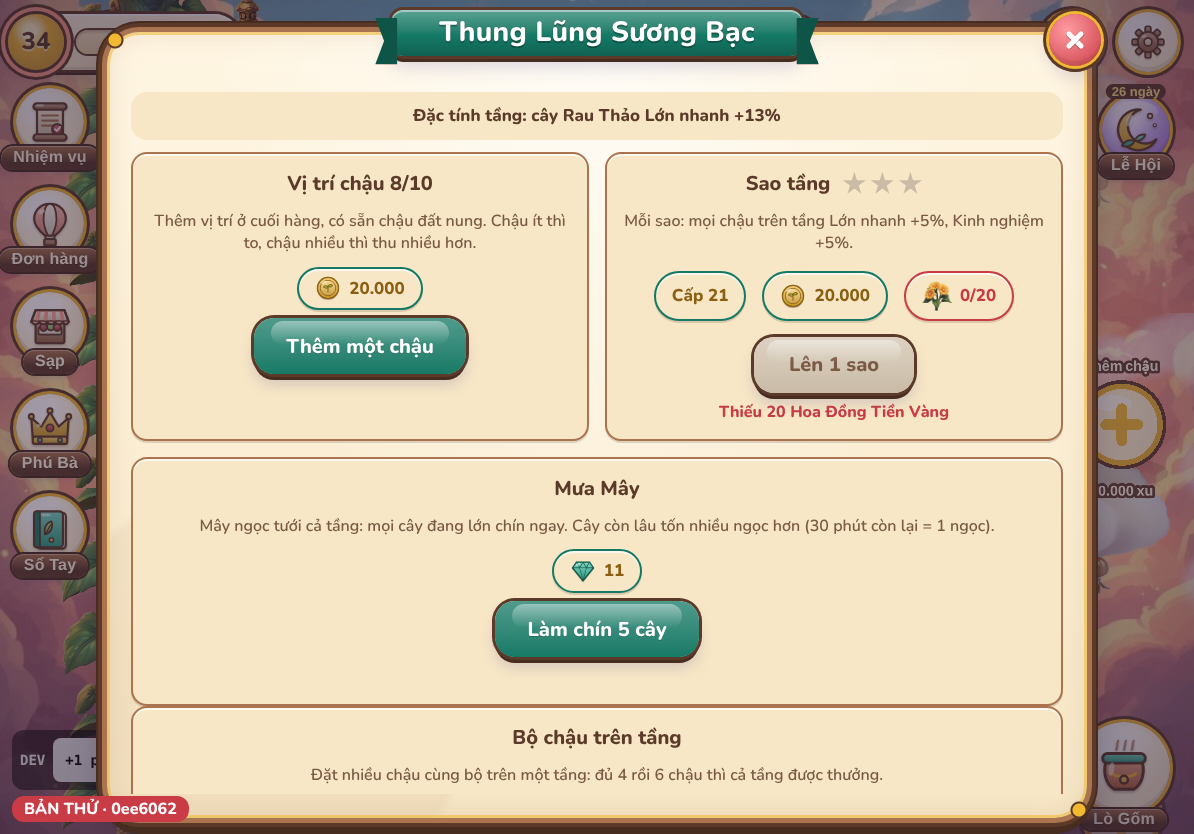
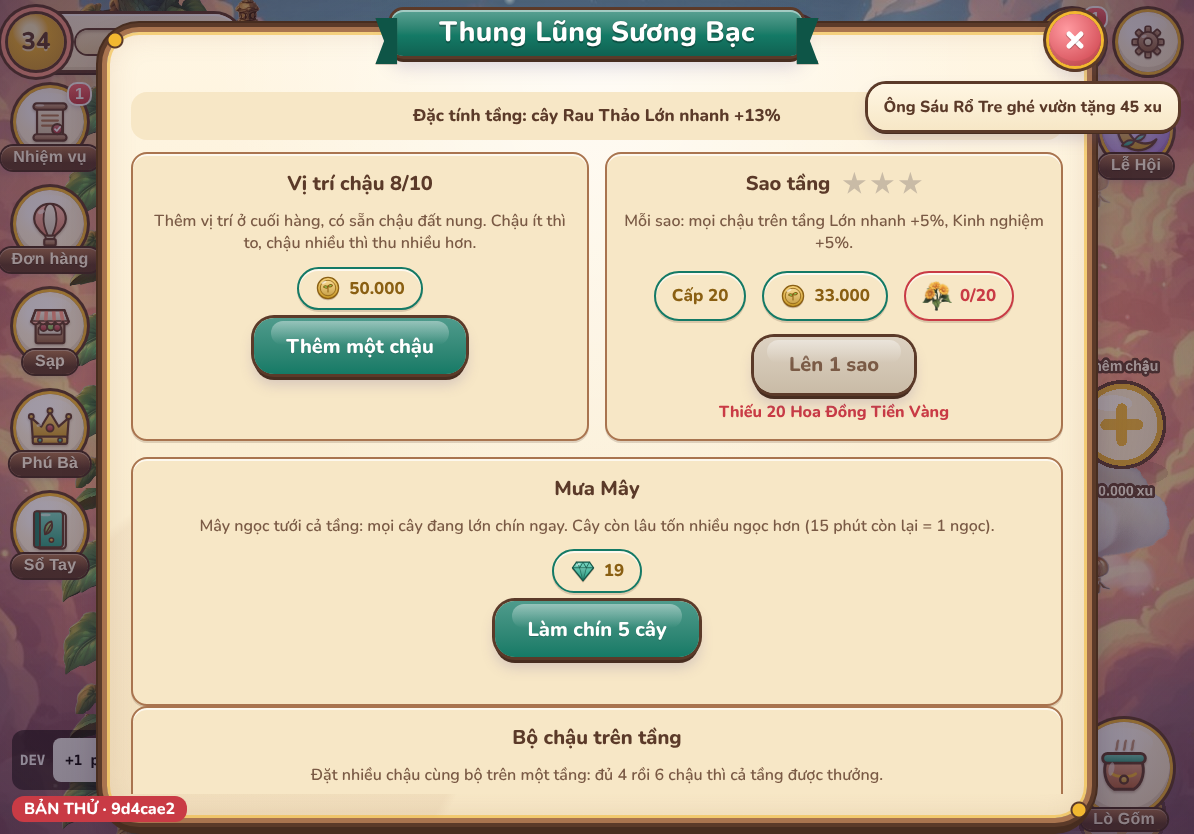
Nâng cấp v3 đợt 1 (bản cuối): báo cáo nghiệm thu, ảnh, log, bảng mô phỏng 3 kiểu chơi
Claude-Session: https://claude.ai/code/session_01Jbb7Avz1GVCUpUTypeYz5L

diff --git a/docs/reports/2026-11-17-nang-cap-v3-dot-1/bao-cao.md b/docs/reports/2026-11-17-nang-cap-v3-dot-1/bao-cao.md
@@ -1,58 +1,67 @@
-# Nâng cấp v3 — Đợt 1: Tiến trình vô tận
+# Nâng cấp v3 — Đợt 1: Tiến trình vô tận (bản cuối, theo kế hoạch A1–A5)
 
-Ngày 17/11/2026. Nhánh `feat/nang-cap-v3`, commit `63a75c2` và `0ee6062`. Kế hoạch tổng nằm ở Project (`ke-hoach-nang-cap-v3.md`).
+Ngày 17/11/2026. Nhánh `feat/nang-cap-v3`, commit `9d4cae2`. Bản này thay cho bản nháp 63a75c2/0ee6062.
 
-Quyết định của chủ dự án: **không có cấp tối đa, không có tầng mây tối đa; tầng càng cao thì yêu cầu càng cao.**
+Kế hoạch đã duyệt: `ke-hoach-nang-cap-v3.md` (Project).
 
-## Đã làm
+## Công thức (đều nằm trong `content/base/config.json`)
 
-| Hạng mục | Nội dung | Dữ liệu |
+| Mục | Công thức | Ghi chú |
 |---|---|---|
-| Cấp không giới hạn | Bỏ trần cấp 30. XP cần để lên cấp L tính bằng `10 × L^1,6 × 1,06^(L−1)`, nên cấp sau luôn khó hơn cấp trước. BOT cũng không còn trần cấp. | `config.levels` |
-| Thưởng lên cấp | Mỗi cấp được 10 + 10×cấp xu. Cứ 5 cấp thêm 2 ngọc, cứ 10 cấp thêm 3 ngọc và 3 Đất Sét Mây. Bảng chúc mừng ghi rõ quà. | `config.levels.levelUp` |
-| Tầng mây vô tận | Sau 3 tầng thiết kế sẵn, tầng 4 trở đi được sinh theo công thức. Tên (8 tên, hết vòng thì thêm "II", "III"…), màu, ảnh và đặc tính họ cây xoay vòng. Đặc tính tăng 1% mỗi tầng, tối đa 30%. Cấp yêu cầu: 16, 20, 25, 30, 36…; giá mở: 20.000 × 2^k. Giá thêm chậu và yêu cầu sao tăng theo. Mỗi tầng có id `base:floor.gen-N`, lưu/tải không mất. | `config.floorGen`, `src/core/floorgen.ts` |
-| Chỗ tiêu xu | Nâng Rương Mây: +20 ô mỗi bậc, không giới hạn bậc. Giá bắt đầu 300 xu và nhân 1,45 mỗi bậc. | `config.storageUpgrade` |
-| Chỗ tiêu ngọc | **Mưa Mây** (trong bảng tầng): làm chín ngay mọi cây đang lớn trên tầng. Giá tính theo thời gian còn lại: 30 phút = 1 ngọc, tối thiểu 1 ngọc mỗi chậu. | `config.cloudRain` |
-| Ngọc không còn tràn | Quà bất ngờ giảm: trần cơ hội từ 0,5 xuống 0,25; quà ngọc nhẹ hơn. Ở vườn lớn, ngọc kiếm được từ khoảng 100 xuống còn 25–40 mỗi ngày. | `surprises.json` |
-| Bố cục | Thẻ tầng đang khóa ghi "Tầng N · tên" và hạ thấp xuống, không còn sát dòng gợi ý. Đồng hồ sự kiện hiện "26 ngày" thay cho "641:15". Mỗi lúc hiện tối đa 2 thông báo. | |
-| Save | Save đời 9 (thêm `upgrades.storage`), có migration 8→9. Thêm save mẫu thật đời 8 từ bản `e17dd05` vào bộ kiểm thử. Save đời 4, 7, 8 đều nâng lên được mà giữ nguyên tiến trình. | |
-| Sửa lỗi | `demo('garden')` không còn cố mua chậu sự kiện/nhiệm vụ. | |
+| A1. Đơn vị thu nhập U(L) | Lấy số xu/chậu/giờ của cây tốt nhất đã mở ở cấp L, giả định người chơi ghé mỗi 30 phút. Nhân với số tầng đã mở ở cấp L × 8 chậu. Nhân với (1 + 0,3). | U(5)=1.664, U(10)=4.421, U(30)=11.791, U(50)=22.107, U(100)=47.163 |
+| A2. XP để lên cấp L | 10 · L^1,6 · 1,06^min(L−1, 49) · (1 + 0,02·max(0, L−50)) | Không có cấp tối đa. Tới cấp 10.000 vẫn là số nguyên chính xác. |
+| Thưởng lên cấp | 0,25·U(L) xu. Thêm 2 ngọc mỗi 5 cấp. Thêm 3 ngọc và 3 Đất Sét Mây mỗi 10 cấp. | |
+| A3. Tầng sinh tự động thứ k | Cấp mở = 16 + 3k. Giá mở = U(cấp mở) × (4 + 5k) giờ. | Tầng 4: cấp 16, 24.000 xu. Tầng 8: cấp 28, 283.000 xu. Tầng 20: cấp 64, 2,48 triệu. Tầng 100: cấp 304, 71,3 triệu. |
+| Thêm chậu, sao tầng | Thêm chậu: 25/50/75/100% giá tầng. Sao: cấp +1/+4/+8, xu 50/100/200% giá tầng, cần nông sản của cây mới nhất. | |
+| Rương Mây | Giá nâng = 300 × (bậc + 1)^2,2 xu. Mỗi bậc thêm 20 ô. | Không giới hạn bậc. Bậc 10.000 vẫn là số nguyên chính xác. |
+| Mưa Mây | Mỗi 15 phút còn lại tốn 1 ngọc, tối thiểu 1 ngọc mỗi chậu. | Chỗ tiêu ngọc. |
+| A4. Trần chỉ số (tổng mọi nguồn) | Lớn nhanh 75%, sản lượng +200%, kinh nghiệm +150%, may mắn +100%, hút bọ +100%, chăm sóc +150%. | Validator bắt buộc có đủ trần cho mọi chỉ số. |
+| Ngân sách quà ngọc | Quà bất ngờ cho tối đa 6 ngọc mỗi ngày; vượt mức thì quà thành xu. | Trước khi sửa, vườn lớn nhận khoảng 30 ngọc/ngày. |
 
-## Nhịp tiến trình (mô phỏng qua bộ xử lý lệnh thật, `tools/progression.ts`)
+## A5. Mô phỏng dài hạn (chạy qua bộ xử lý lệnh thật, nằm trong `npm test`)
 
-Người chơi giả lập ghé vườn từ 8h đến 22h và tiêu xu theo thứ tự: tầng → chậu → sao → rương → nâng chậu. Mô phỏng chưa tính việc mua chậu ở Lò Gốm và dùng Mưa Mây.
+Người chơi giả lập ghé vườn trong khoảng 8h–22h. Mỗi lần ghé: thu hoạch, bán, giao đơn, nhận thưởng, gieo lại, rồi tiêu tiền vào tầng → chậu → sao → Rương Mây → chậu mới ở Lò Gốm → nâng chậu. Dùng Mưa Mây một lần mỗi sáng nếu đủ ngọc.
 
-| Ngày | Ghé 2 giờ/lần: cấp / tầng | Ghé 15 phút/lần: cấp / tầng |
-|---|---|---|
-| 1 | 6 / 1 | 15 / 2 |
-| 3 | 19 / 3 | 26 / 5 |
-| 7 | 32 / 6 | 36 / 7 |
-| 14 | 42 / 8 | 45 / 9 |
-| 21 | 48 / 9 | 50 / 9 |
-| 30 | 53 / 10 | 55 / 10 |
+| Kiểu chơi | Ngày 7 | Ngày 30 | Cuối mô phỏng | Lâu nhất không có mốc mới | Ngọc kiếm/ngày (30 ngày cuối) |
+|---|---|---|---|---|---|
+| Ghé 15 phút/lần (90 ngày) | — | cấp 54, 10 tầng | ngày 90: cấp 81, 18 tầng | ≤ 10 ngày (đạt) | khoảng 6–7 |
+| Ghé 2 giờ/lần (365 ngày) | cấp 20–45, ≥ 4 tầng (đạt) | cấp 50, 9 tầng | ngày 360: cấp 133, 32 tầng | ≤ 10 ngày (đạt) | khoảng 6–7 |
+| Ghé 8 giờ/lần (365 ngày) | — | cấp 30, 4 tầng | ngày 360: cấp 77, 17 tầng | ≤ 10 ngày (đạt) | khoảng 7 |
 
-Trước đợt này: người chơi đạt cấp 30 (trần) sau 2–5 ngày, rồi dư 1,17 triệu xu mà không có gì để mua. Sau đợt này: người chơi vẫn lên cấp và mở tầng mới mỗi tuần, chỉ chậm dần, và xu được tiêu vào tầng mới (giá tăng gấp đôi mỗi tầng). Nhịp này được giữ bằng test `tests/progression.test.ts`.
+"Mốc mới" gồm: mở tầng, thêm chậu, lên sao tầng, có cây mới, mua dòng chậu mới, chậu lên mốc cấp, nâng Rương Mây.
 
-## Kiểm thử
+Kiểm tra tự động cho cả 3 kiểu chơi:
+- cấp và tầng không bao giờ giảm;
+- không có quá 10 ngày liền không có mốc mới;
+- số xu tồn ≤ max(72·U, 1,5 × giá tầng kế tiếp) — tức người chơi chỉ để dành để mua tầng, không ôm tiền vô ích;
+- ngọc kiếm mỗi ngày ≤ 12;
+- 30 ngày cuối vẫn còn lên cấp.
 
-- `npm run typecheck`: exit 0.
-- `npm test`: 108/108 đạt, gồm 7 test mới cho tiến trình và 1 test nâng save đời 8.
-- `npm run build`: exit 0.
-- Chơi thử trong trình duyệt khổ 1194×834:
-  - save mới: gieo, thu hoạch bằng cách vuốt;
-  - vườn 5 tầng với tầng 6 đang khóa;
-  - bảng tầng có Mưa Mây;
-  - Rương Mây có nút nâng cấp.
-  - Không có lỗi console.
+Bảng chi tiết theo từng ngày: `prog15.md`, `prog120.md`, `prog480.md`.
 
-## Ảnh (bản `0ee6062`)
+**Điều chỉnh so với kế hoạch:** kế hoạch ghi giới hạn xu tồn là "≤ 72·U". Khi chạy mô phỏng, người chơi tiết kiệm để mua tầng cao (giá có thể vượt 72·U), nên mình sửa giới hạn thành "≤ max(72·U, 1,5 × giá tầng kế)". Mục đích của tiêu chí vẫn giữ nguyên: không ôm xu khi không có gì để mua.
 
-- `nguoi-choi-moi.png`: màn hình đầu của người chơi mới. Thẻ "Tầng 2" không còn sát dòng gợi ý.
-- `tang-vo-tan.png`: tầng 5 "Thung Lũng Sương Bạc" (sinh tự động) và tầng 6 đang khóa.
-- `bang-tang-mua-may.png`: bảng tầng với đặc tính, sao và Mưa Mây.
+## Cổng nghiệm thu
+
+| Tiêu chí | Kết quả |
+|---|---|
+| typecheck / test / build | exit 0 / **113/113 đạt** / exit 0 (`typecheck.log`, `test.log`, `build.log`) |
+| Test mới | 11 test tiến trình, gồm: 3 bài mô phỏng dài hạn; kiểm tra số học ở cấp 10.000, tầng 1.000 và Rương bậc 10.000; trần chỉ số; lưu/tải tầng sinh tự động; Rương Mây; Mưa Mây. Thêm 1 test save đời 9. |
+| Save cũ | Save mẫu thật đời 4 (d7c9ded), 7 (27159a0) và 8 (e17dd05) nâng lên đời 9, giữ nguyên tiến trình, có bản sao trước nâng cấp. Save đời 9 của bản thử nháp 9ef65c4 (thiếu ngân sách quà) tải được, giữ tiến trình. |
+| Chơi thử (Chrome, 1194×834, có bật cảm ứng) | (1) Save mới: 5 vòng gieo Cúc rồi vuốt thu hoạch → cấp 3, 218 xu, 28 lần thu hoạch. (2) Vườn 5 tầng: chạm thẻ "Tầng 6", bấm "Mở tầng" → đủ 6 tầng, trừ đúng 124.000 xu, thẻ chuyển sang "Tầng 7 · Đồi Cầu Vồng". (3) Mưa Mây trong bảng tầng: −19 ngọc, cây chín ngay. (4) Nâng Rương Mây: 60 → 80 ô. Không có lỗi console. |
+| Hiệu năng | Nút "Đo hiệu năng" cho kết quả ngang bản trước: 5,8–6,0 FPS ở bản này và bản e17dd05 khi đo trên cùng máy. Máy này vẽ bằng phần mềm (SwiftShader) nên con số chỉ dùng để so sánh tương đối. Texture không đổi: 95,1 MB. **Chưa đo trên iPad thật.** |
+| Bản thử | GitHub Pages, nhãn "BẢN THỬ · <commit>". |
+
+## Ảnh (bản 9d4cae2)
+
+- `nguoi-choi-moi-5-phut.png`: người chơi mới sau 5 vòng.
+- `tang-vo-tan.png`: vườn 5 tầng, thẻ tầng 6.
+- `mo-tang-6-qua-giao-dien.png`: sau khi bấm mở tầng 6, thẻ tầng 7.
+- `bang-tang-mua-may.png`: bảng tầng có Mưa Mây.
 - `ruong-may-nang-cap.png`: Rương Mây với nút nâng cấp.
 
-## Chưa làm trong đợt này
+## Còn mở (để các đợt sau)
 
-- Ảnh riêng cho tầng sinh tự động. Hiện các tầng này dùng lại ảnh 3 tầng cũ, đổi tên và màu. Ảnh riêng sẽ làm bằng Blender ở Đợt 6.
-- Cân lại giá trị chậu đặc trưng và mở cấp 11–50 cho chậu cổ điển: để Đợt 6.
+- Ngọc vẫn dư khoảng 5 ngọc/ngày, vì hiện chỉ có Mưa Mây để tiêu ngọc. Đợt 4 (cửa hàng sự kiện) và Đợt 5 (thú cưng) sẽ thêm chỗ tiêu.
+- Tầng sinh tự động dùng lại ảnh 3 tầng cũ, chỉ đổi màu. Ảnh mới bằng Blender làm ở Đợt 3.
+- Người mới đầy Rương Mây (56/60) chỉ sau khoảng 5 phút trồng Cúc. Đợt 2 sẽ thêm hướng dẫn bán hàng; Đợt 3 thêm nút "bán hết".

diff --git a/docs/reports/2026-11-17-nang-cap-v3-dot-1/prog120.md b/docs/reports/2026-11-17-nang-cap-v3-dot-1/prog120.md
@@ -1,32 +1,15 @@
-| Ngày | Cấp | Tầng | Xu | Ngọc | Thu hoạch |
-|---|---|---|---|---|---|
-| 1 | 6 | 1 | 778 | 16 | 48 |
-| 2 | 12 | 2 | 808 | 37 | 145 |
-| 3 | 19 | 3 | 7448 | 64 | 325 |
-| 4 | 23 | 4 | 3453 | 74 | 596 |
-| 5 | 27 | 5 | 1345 | 82 | 922 |
-| 6 | 29 | 5 | 61720 | 132 | 1317 |
-| 7 | 32 | 6 | 45632 | 158 | 1756 |
-| 8 | 34 | 6 | 104558 | 178 | 2233 |
-| 9 | 35 | 7 | 39785 | 199 | 2740 |
-| 10 | 37 | 7 | 12170 | 216 | 3289 |
-| 11 | 38 | 7 | 161804 | 242 | 3848 |
-| 12 | 40 | 7 | 292974 | 275 | 4408 |
-| 13 | 41 | 8 | 21712 | 317 | 5001 |
-| 14 | 42 | 8 | 65034 | 342 | 5625 |
-| 15 | 43 | 8 | 22164 | 373 | 6257 |
-| 16 | 44 | 8 | 242768 | 399 | 6896 |
-| 17 | 45 | 8 | 389072 | 437 | 7536 |
-| 18 | 45 | 8 | 508804 | 465 | 8176 |
-| 19 | 46 | 9 | 89181 | 485 | 8828 |
-| 20 | 47 | 9 | 36281 | 513 | 9522 |
-| 21 | 48 | 9 | 294252 | 533 | 10226 |
-| 22 | 48 | 9 | 211124 | 553 | 10936 |
-| 23 | 49 | 9 | 490364 | 582 | 11648 |
-| 24 | 49 | 9 | 243465 | 608 | 12366 |
-| 25 | 50 | 9 | 495129 | 644 | 13086 |
-| 26 | 51 | 9 | 573928 | 675 | 13806 |
-| 27 | 51 | 9 | 833614 | 694 | 14526 |
-| 28 | 52 | 9 | 846763 | 737 | 15246 |
-| 29 | 52 | 9 | 1127568 | 769 | 15966 |
-| 30 | 53 | 10 | 95429 | 810 | 16692 |
+| Ngày | Cấp | Tầng | Xu | U(cấp) | Xu/U | Ngọc | Ngọc kiếm | Mốc | Thu hoạch |
+|---|---|---|---|---|---|---|---|---|---|
+| 1 | 6 | 1 | 646 | 2948 | 0.2 | 16 | 11 | 10 | 48 |
+| 30 | 50 | 9 | 33966 | 22107 | 1.5 | 17 | 7 | 2 | 12974 |
+| 60 | 64 | 12 | 809632 | 29477 | 27.5 | 59 | 7 | 0 | 38053 |
+| 90 | 75 | 15 | 897894 | 33898 | 26.5 | 62 | 6 | 0 | 70868 |
+| 120 | 84 | 18 | 28635 | 38320 | 0.7 | 14 | 6 | 1 | 110030 |
+| 150 | 92 | 20 | 1218499 | 42741 | 28.5 | 35 | 6 | 0 | 154653 |
+| 180 | 99 | 22 | 2022031 | 45689 | 44.3 | 35 | 7 | 0 | 204164 |
+| 210 | 106 | 24 | 1164044 | 50110 | 23.2 | 23 | 8 | 0 | 258296 |
+| 240 | 112 | 25 | 2940119 | 53058 | 55.4 | 7 | 6 | 1 | 316897 |
+| 270 | 118 | 27 | 1753126 | 56005 | 31.3 | 23 | 7 | 0 | 379754 |
+| 300 | 123 | 29 | 2710644 | 57479 | 47.2 | 0 | 6 | 0 | 446372 |
+| 330 | 128 | 30 | 5904572 | 60427 | 97.7 | 73 | 6 | 0 | 516868 |
+| 360 | 133 | 32 | 2043435 | 63375 | 32.2 | 10 | 7 | 0 | 591343 |

diff --git a/docs/reports/2026-11-17-nang-cap-v3-dot-1/prog15.md b/docs/reports/2026-11-17-nang-cap-v3-dot-1/prog15.md
@@ -1,32 +1,6 @@
-| Ngày | Cấp | Tầng | Xu | Ngọc | Thu hoạch |
-|---|---|---|---|---|---|
-| 1 | 15 | 2 | 7327 | 53 | 359 |
-| 2 | 22 | 4 | 14934 | 101 | 1101 |
-| 3 | 26 | 5 | 12510 | 121 | 2145 |
-| 4 | 29 | 6 | 12934 | 155 | 3402 |
-| 5 | 32 | 6 | 77766 | 186 | 4875 |
-| 6 | 34 | 7 | 34971 | 225 | 6407 |
-| 7 | 36 | 7 | 126671 | 270 | 8117 |
-| 8 | 38 | 7 | 217455 | 309 | 9865 |
-| 9 | 39 | 7 | 318902 | 350 | 11615 |
-| 10 | 41 | 8 | 123284 | 390 | 13532 |
-| 11 | 42 | 8 | 244912 | 433 | 15502 |
-| 12 | 43 | 8 | 269157 | 479 | 17499 |
-| 13 | 44 | 8 | 430547 | 533 | 19499 |
-| 14 | 45 | 9 | 68623 | 574 | 21529 |
-| 15 | 46 | 9 | 109156 | 624 | 23707 |
-| 16 | 47 | 9 | 130581 | 689 | 25915 |
-| 17 | 48 | 9 | 454613 | 737 | 28140 |
-| 18 | 48 | 9 | 272137 | 793 | 30384 |
-| 19 | 49 | 9 | 624484 | 850 | 32634 |
-| 20 | 50 | 9 | 789601 | 917 | 34884 |
-| 21 | 50 | 9 | 896297 | 966 | 37134 |
-| 22 | 51 | 9 | 1233635 | 1016 | 39384 |
-| 23 | 52 | 10 | 82510 | 1064 | 41752 |
-| 24 | 52 | 10 | 66562 | 1125 | 44180 |
-| 25 | 53 | 10 | 451272 | 1189 | 46630 |
-| 26 | 53 | 10 | 189901 | 1244 | 49091 |
-| 27 | 54 | 10 | 564106 | 1292 | 51566 |
-| 28 | 54 | 10 | 976669 | 1358 | 54041 |
-| 29 | 55 | 10 | 358321 | 1412 | 56539 |
-| 30 | 55 | 10 | 770512 | 1464 | 59039 |
+| Ngày | Cấp | Tầng | Xu | U(cấp) | Xu/U | Ngọc | Ngọc kiếm | Mốc | Thu hoạch |
+|---|---|---|---|---|---|---|---|---|---|
+| 1 | 16 | 2 | 974 | 5895 | 0.2 | 53 | 48 | 25 | 383 |
+| 30 | 54 | 10 | 233193 | 23581 | 9.9 | 17 | 7 | 1 | 48683 |
+| 60 | 69 | 14 | 1135238 | 30950 | 36.7 | 6 | 7 | 0 | 139425 |
+| 90 | 81 | 18 | 121003 | 36846 | 3.3 | 25 | 6 | 2 | 257943 |

diff --git a/docs/reports/2026-11-17-nang-cap-v3-dot-1/prog480.md b/docs/reports/2026-11-17-nang-cap-v3-dot-1/prog480.md
@@ -1,0 +1,15 @@
+| Ngày | Cấp | Tầng | Xu | U(cấp) | Xu/U | Ngọc | Ngọc kiếm | Mốc | Thu hoạch |
+|---|---|---|---|---|---|---|---|---|---|
+| 1 | 2 | 1 | 338 | 374 | 0.9 | 6 | 1 | 2 | 6 |
+| 30 | 30 | 4 | 613 | 11791 | 0.1 | 39 | 2 | 3 | 1434 |
+| 60 | 39 | 6 | 6970 | 16212 | 0.4 | 29 | 7 | 2 | 4127 |
+| 90 | 46 | 8 | 242508 | 20634 | 11.8 | 19 | 5 | 0 | 8299 |
+| 120 | 51 | 10 | 105900 | 22107 | 4.8 | 46 | 6 | 1 | 13571 |
+| 150 | 55 | 11 | 528890 | 25055 | 21.1 | 35 | 6 | 0 | 19738 |
+| 180 | 59 | 12 | 15506 | 26529 | 0.6 | 21 | 7 | 1 | 26555 |
+| 210 | 62 | 13 | 99369 | 28003 | 3.5 | 55 | 8 | 1 | 34017 |
+| 240 | 66 | 14 | 365201 | 29477 | 12.4 | 33 | 6 | 0 | 42005 |
+| 270 | 69 | 15 | 304202 | 30950 | 9.8 | 34 | 6 | 0 | 50588 |
+| 300 | 72 | 16 | 407625 | 32424 | 12.6 | 28 | 6 | 0 | 59613 |
+| 330 | 75 | 16 | 1011926 | 33898 | 29.9 | 11 | 8 | 0 | 69156 |
+| 360 | 77 | 17 | 1675011 | 35372 | 47.4 | 43 | 7 | 0 | 79169 |
